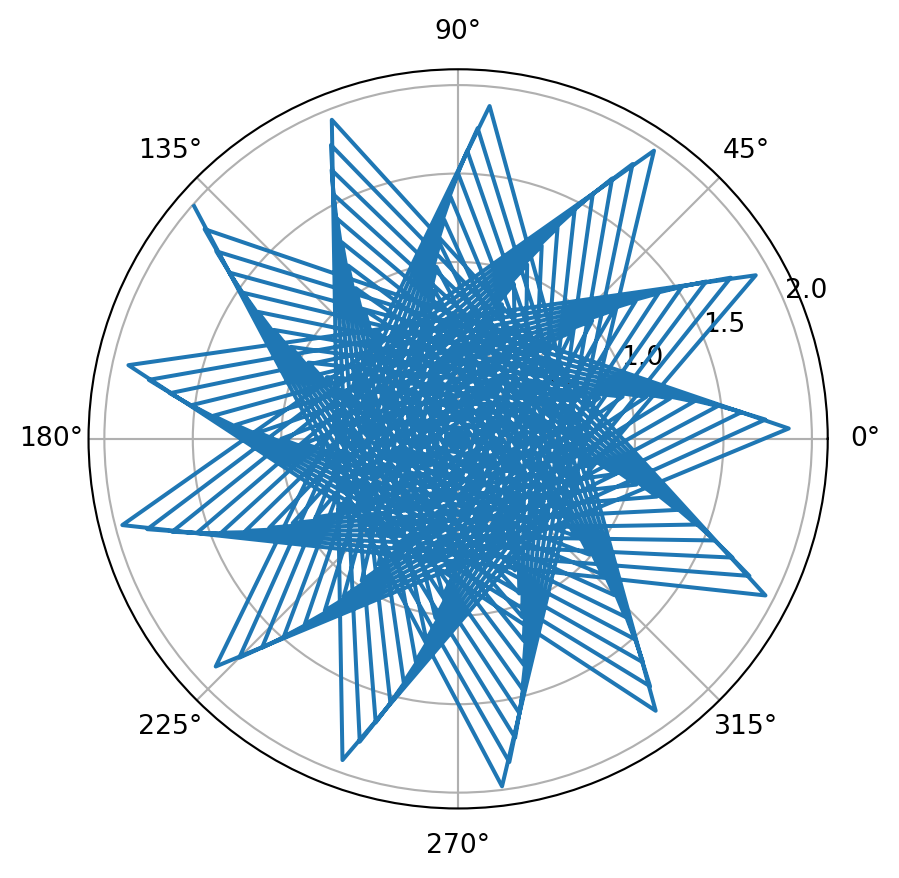
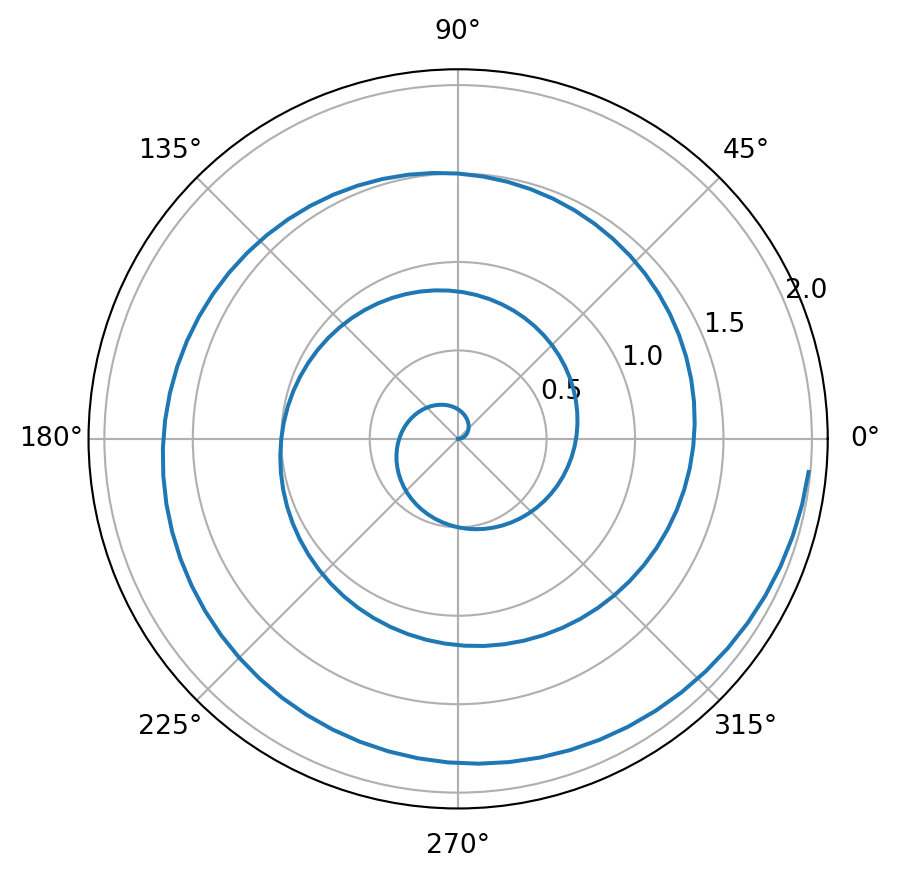
new render

diff --git a/hello.html b/hello.html
@@ -104,7 +104,7 @@ pre > code.sourceCode > span > a:first-child::before { text-decoration: underlin
 <span id="cb1-2"><a href="#cb1-2" aria-hidden="true" tabindex="-1"></a><span class="im">import</span> matplotlib.pyplot <span class="im">as</span> plt</span>
 <span id="cb1-3"><a href="#cb1-3" aria-hidden="true" tabindex="-1"></a></span>
 <span id="cb1-4"><a href="#cb1-4" aria-hidden="true" tabindex="-1"></a>r <span class="op">=</span> np.arange(<span class="dv">0</span>, <span class="dv">2</span>, <span class="fl">0.01</span>)</span>
-<span id="cb1-5"><a href="#cb1-5" aria-hidden="true" tabindex="-1"></a>theta <span class="op">=</span> <span class="dv">123</span> <span class="op">*</span> np.pi <span class="op">*</span> r</span>
+<span id="cb1-5"><a href="#cb1-5" aria-hidden="true" tabindex="-1"></a>theta <span class="op">=</span> <span class="dv">3</span> <span class="op">*</span> np.pi <span class="op">*</span> r</span>
 <span id="cb1-6"><a href="#cb1-6" aria-hidden="true" tabindex="-1"></a>fig, ax <span class="op">=</span> plt.subplots(</span>
 <span id="cb1-7"><a href="#cb1-7" aria-hidden="true" tabindex="-1"></a>  subplot_kw <span class="op">=</span> {<span class="st">'projection'</span>: <span class="st">'polar'</span>} </span>
 <span id="cb1-8"><a href="#cb1-8" aria-hidden="true" tabindex="-1"></a>)</span>
